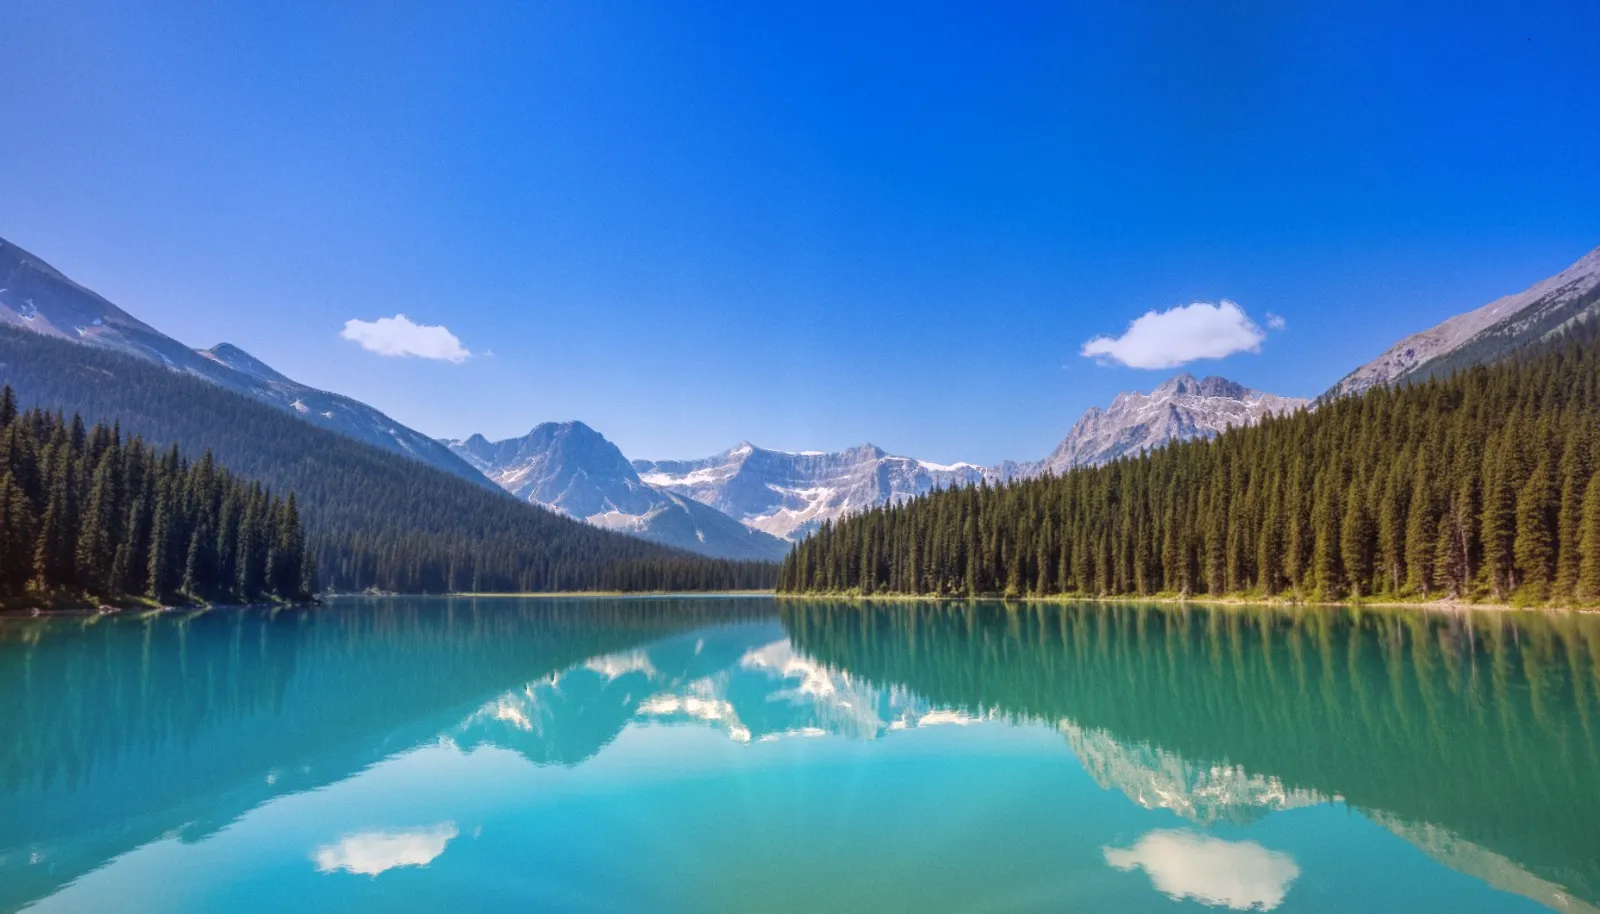
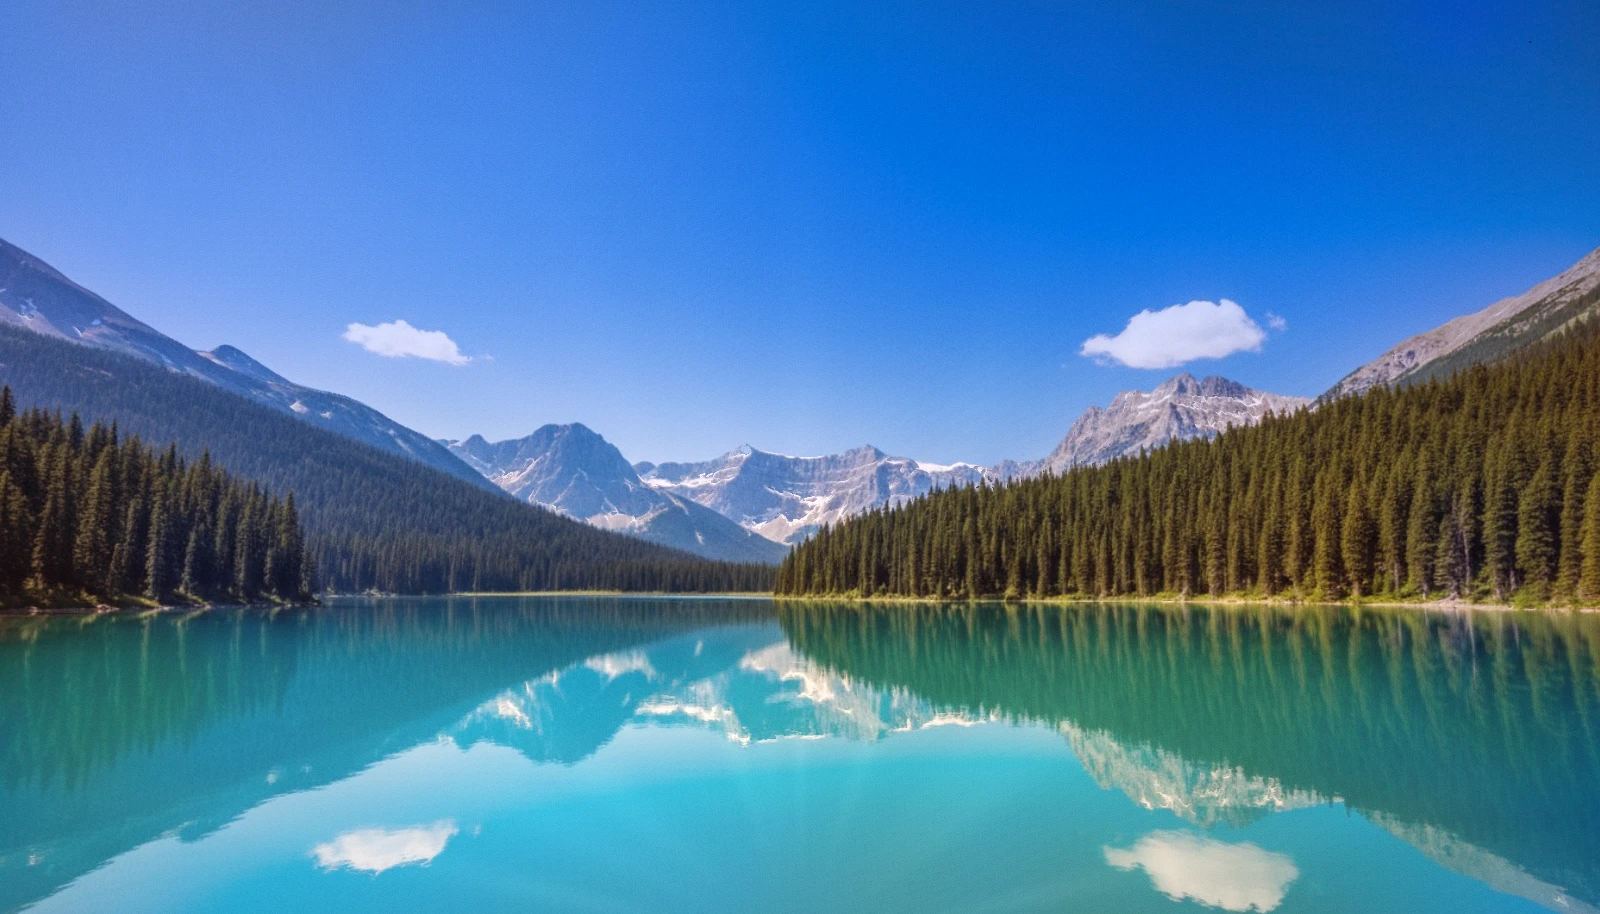
Theme switch as one view-transition wipe (nav and toggle on their own layers); nav links on scroll; drop coming-soon chip; calmer calendar event

diff --git a/src/components/site/theme.tsx b/src/components/site/theme.tsx
@@ -1,44 +1,111 @@
 'use client';
 
 import { createContext, useCallback, useContext, useEffect, useRef, useState } from 'react';
+import { flushSync } from 'react-dom';
 
 export type Theme = 'light' | 'dark';
 const KEY = 'cos-theme';
 
-type Ctx = { theme: Theme; ready: boolean; toggle: () => void };
-const ThemeContext = createContext<Ctx>({ theme: 'light', ready: false, toggle: () => {} });
+type Origin = { x: number; y: number };
+/** toggle returns false when a switch is already running (the click is ignored). */
+type Ctx = { theme: Theme; ready: boolean; toggle: (origin?: Origin) => boolean };
+const ThemeContext = createContext<Ctx>({ theme: 'light', ready: false, toggle: () => false });
 export const useTheme = () => useContext(ThemeContext);
 
 /** Runs before paint (inlined in the page) so a returning dark visitor never sees a light flash. */
 export const THEME_BOOT = `(function(){try{var t=localStorage.getItem('${KEY}');if(!t)t=matchMedia('(prefers-color-scheme: dark)').matches?'dark':'light';document.documentElement.dataset.cosTheme=t;}catch(e){}})();`;
 
+type ViewTransition = { ready: Promise<void>; finished: Promise<void> };
+type ViewTransitionDoc = Document & { startViewTransition?: (cb: () => void) => ViewTransition };
+
+const WIPE_MS = 820;
+const WIPE_EASE = 'cubic-bezier(0.65, 0, 0.35, 1)';
+const WATCHDOG_MS = 400;
+
 export function ThemeProvider({ children }: { children: React.ReactNode }) {
   const [theme, setTheme] = useState<Theme>('light');
   const [ready, setReady] = useState(false);
-  const easing = useRef(0);
+  const themeRef = useRef<Theme>('light');
+  const busy = useRef(false);
 
   useEffect(() => {
-    const boot = document.documentElement.dataset.cosTheme;
-    setTheme(boot === 'dark' ? 'dark' : 'light');
+    const boot: Theme = document.documentElement.dataset.cosTheme === 'dark' ? 'dark' : 'light';
+    themeRef.current = boot;
+    setTheme(boot);
     setReady(true);
   }, []);
 
-  const toggle = useCallback(() => {
-    setTheme((t) => {
-      const next: Theme = t === 'dark' ? 'light' : 'dark';
-      const root = document.documentElement;
-      // colours ease across the whole page while the sky reveals itself
-      root.dataset.cosTheming = 'true';
-      window.clearTimeout(easing.current);
-      easing.current = window.setTimeout(() => delete root.dataset.cosTheming, 900);
+  const toggle = useCallback((origin?: Origin) => {
+    if (busy.current) return false;
+    const next: Theme = themeRef.current === 'dark' ? 'light' : 'dark';
+    themeRef.current = next;
+    const root = document.documentElement;
+
+    let applied = false;
+    const apply = () => {
+      if (applied) return;
+      applied = true;
       root.dataset.cosTheme = next;
       try {
         localStorage.setItem(KEY, next);
       } catch {
         /* private mode */
       }
-      return next;
-    });
+      flushSync(() => setTheme(next));
+    };
+
+    const doc = document as ViewTransitionDoc;
+    const reduce = window.matchMedia('(prefers-reduced-motion: reduce)').matches;
+    if (!doc.startViewTransition || reduce) {
+      apply();
+      return true;
+    }
+
+    // One clean wipe: the browser freezes the old page, applies the new theme, and we
+    // grow the new page in a circle from the toggle over the old one. Everything inside
+    // the circle (sky, colours, cards, nav) is already the new theme.
+    busy.current = true;
+    const x = origin?.x ?? window.innerWidth - 80;
+    const y = origin?.y ?? 40;
+    const r = Math.hypot(Math.max(x, window.innerWidth - x), Math.max(y, window.innerHeight - y));
+    const done = () => {
+      busy.current = false;
+    };
+
+    let transition: ViewTransition;
+    try {
+      transition = doc.startViewTransition(apply);
+    } catch {
+      apply();
+      done();
+      return true;
+    }
+    // if a browser ever stalls the transition, switch anyway rather than leave the page behind
+    const watchdog = window.setTimeout(apply, WATCHDOG_MS);
+    transition.ready
+      .then(() => {
+        // the page and the nav (its own layer, so its glass background never lags) share one circle
+        for (const layer of ['root', 'cos-nav']) {
+          try {
+            root.animate(
+              { clipPath: [`circle(0px at ${x}px ${y}px)`, `circle(${r}px at ${x}px ${y}px)`] },
+              { duration: WIPE_MS, easing: WIPE_EASE, pseudoElement: `::view-transition-new(${layer})` },
+            );
+          } catch {
+            /* layer not present */
+          }
+        }
+      })
+      .catch(() => {});
+    transition.finished
+      .catch(() => {})
+      .finally(() => {
+        window.clearTimeout(watchdog);
+        done();
+      });
+    // never stay locked out of the toggle
+    window.setTimeout(done, WIPE_MS + 600);
+    return true;
   }, []);
 
   return <ThemeContext.Provider value={{ theme, ready, toggle }}>{children}</ThemeContext.Provider>;

diff --git a/src/components/site/site.css b/src/components/site/site.css
@@ -269,6 +269,20 @@ html:not([data-cos-theme='dark']) .cos-hero-actions .cos-btn-silver {
 .cos-nav-links {
   display: flex;
   gap: 4px;
+  transition:
+    opacity 320ms var(--cos-ease-out),
+    transform 420ms var(--cos-ease-out),
+    visibility 0s linear 0s;
+}
+/* over the sky the hero speaks for itself: the section links arrive once you scroll */
+.cos-nav:not([data-scrolled='true']) .cos-nav-links {
+  opacity: 0;
+  visibility: hidden;
+  transform: translateY(-4px);
+  transition:
+    opacity 200ms ease,
+    transform 200ms ease,
+    visibility 0s linear 200ms;
 }
 .cos-nav-link {
   display: inline-flex;
@@ -361,7 +375,7 @@ html:not([data-cos-theme='dark']) .cos-hero-actions .cos-btn-silver {
 
 .cos-hero {
   position: relative;
-  padding-top: clamp(132px, 17vh, 184px);
+  padding-top: clamp(156px, 20vh, 212px);
   padding-bottom: clamp(48px, 7vh, 88px);
 }
 
@@ -1203,15 +1217,15 @@ html[data-cos-theme='dark'] .cos-btn-silver::before {
 }
 
 /* the scene at night */
+/* at night every tile is bright frosted glass, so the brand marks never sink into it */
 html[data-cos-theme='dark'] .cos-tile:not(.cos-tile-ink) {
   background:
-    radial-gradient(120% 80% at 50% 0%, rgba(160, 172, 255, 0.22), rgba(160, 172, 255, 0) 60%),
-    linear-gradient(180deg, rgba(42, 44, 62, 0.85), rgba(18, 19, 30, 0.85));
+    radial-gradient(120% 80% at 50% 0%, #fff, rgba(255, 255, 255, 0) 60%),
+    linear-gradient(180deg, rgba(246, 246, 250, 0.95), rgba(214, 216, 228, 0.92));
   box-shadow:
-    inset 0 1px 0 rgba(255, 255, 255, 0.2),
-    inset 0 0 0 1px rgba(148, 161, 255, 0.18),
-    0 0 0 1px rgba(0, 0, 0, 0.5),
-    0 22px 40px -18px rgba(0, 0, 0, 0.7);
+    inset 0 1px 0 #fff,
+    0 0 0 1px rgba(255, 255, 255, 0.3),
+    0 22px 40px -18px rgba(148, 161, 255, 0.45);
 }
 html[data-cos-theme='dark'] .cos-tile-ink {
   background:
@@ -1298,15 +1312,42 @@ html[data-cos-theme='dark'] .cos-hero-demo::before {
   }
 }
 
-/* while the theme changes, colours ease everywhere at once */
-html[data-cos-theming='true'] .cos,
-html[data-cos-theming='true'] .cos *,
-html[data-cos-theming='true'] .cos *::before {
-  transition-property: background-color, background, color, border-color, box-shadow, fill, stroke, text-shadow !important;
-  transition-duration: 760ms !important;
-  transition-timing-function: cubic-bezier(0.65, 0, 0.35, 1) !important;
-  transition-delay: 0ms !important;
+/* the theme switch: one wipe from the toggle over the whole page (theme.tsx).
+   The toggle rides on its own layer, live above the wipe, so its slide is never clipped. */
+::view-transition-old(root),
+::view-transition-new(root),
+::view-transition-old(cos-nav),
+::view-transition-new(cos-nav) {
+  animation: none;
+  mix-blend-mode: normal;
 }
+::view-transition-new(root),
+::view-transition-new(cos-nav) {
+  z-index: 1;
+}
+/* the nav is its own layer, wiped by the same circle (it sits at the top-left, so the
+   circle's page coordinates line up with its own) */
+.cos-nav {
+  view-transition-name: cos-nav;
+}
+::view-transition-group(cos-nav) {
+  z-index: 2;
+  animation: none;
+}
+.cos-theme-toggle {
+  view-transition-name: cos-theme-toggle;
+}
+::view-transition-group(cos-theme-toggle) {
+  z-index: 3;
+  animation: none;
+}
+::view-transition-old(cos-theme-toggle) {
+  display: none;
+}
+::view-transition-new(cos-theme-toggle) {
+  animation: none;
+}
+
 
 @media (max-width: 719px) {
   .cos-nav-actions .cos-btn-metal {

diff --git a/src/components/site/demo/demo.css b/src/components/site/demo/demo.css
@@ -488,21 +488,47 @@ img.dm-avatar {
   flex: none;
 }
 .dm-cal-new {
-  background: linear-gradient(180deg, #5c7aff, #3555f0);
-  color: #fff;
-  box-shadow: inset 0 1px 0 rgba(255, 255, 255, 0.3);
+  position: relative;
+  padding-left: 10px;
+  background: var(--dm-panel);
+  color: var(--dm-text);
+  font-weight: 550;
+  box-shadow:
+    inset 0 0 0 1px rgba(47, 91, 234, 0.35),
+    0 6px 14px -8px rgba(47, 91, 234, 0.45);
   opacity: 0;
-  transform: translateY(-46px) scale(0.94);
-  filter: blur(4px);
+  transform: translateY(4px) scale(0.96);
+  transform-origin: 50% 0;
   transition:
-    opacity 360ms ease,
-    transform 700ms cubic-bezier(0.34, 1.32, 0.64, 1),
-    filter 400ms ease;
+    opacity 260ms ease,
+    transform 420ms cubic-bezier(0.23, 1, 0.32, 1);
+}
+/* a cobalt accent bar marks it as the one just scheduled */
+.dm-cal-new::before {
+  content: '';
+  position: absolute;
+  left: 3px;
+  top: 5px;
+  bottom: 5px;
+  width: 3px;
+  border-radius: 2px;
+  background: var(--dm-blue);
 }
 .dm-cal-new[data-on='true'] {
   opacity: 1;
   transform: none;
-  filter: none;
+}
+/* the cell answers once as the post lands */
+.dm-cal-cell[data-target='true'] {
+  animation: dm-land 900ms ease-out;
+}
+@keyframes dm-land {
+  0% {
+    box-shadow: inset 0 0 0 1px rgba(47, 91, 234, 0.45), 0 0 0 0 rgba(47, 91, 234, 0.35);
+  }
+  100% {
+    box-shadow: inset 0 0 0 1px rgba(47, 91, 234, 0.45), 0 0 0 10px rgba(47, 91, 234, 0);
+  }
 }
 .dm-toast {
   position: absolute;

diff --git a/src/components/site/hero/SkyField.tsx b/src/components/site/hero/SkyField.tsx
@@ -1,6 +1,6 @@
 'use client';
 
-import { useEffect, useRef, useState } from 'react';
+import { useEffect, useLayoutEffect, useRef, useState } from 'react';
 import { ClayzoPlayer } from '@clayzo/webgl-player/react';
 import type { PlayerHandle } from '@clayzo/webgl-player';
 import { readClayzoBundle, type LoadedClayzo } from '@clayzo/animation/bundle';
@@ -8,8 +8,8 @@ import { useTheme } from '../theme';
 
 /**
  * The hero backdrop (Clayzo, animations/hero-sky.ts): a painted sky whose
- * clouds drift and lean toward the cursor. At night the starlit version
- * spreads out from the toggle's corner. ?bg=lake swaps in the mountain lake.
+ * clouds drift and lean toward the cursor. Day and night switch instantly;
+ * the page-wide wipe (theme.tsx) does the reveal. ?bg=lake swaps in the mountain lake.
  */
 const BACKDROPS = {
   sky: { scene: 'hero-sky', day: 'sky', night: 'sky-night' },
@@ -23,7 +23,8 @@ export function SkyField() {
   const playerRef = useRef<PlayerHandle | null>(null);
   const night = theme === 'dark' ? 1 : 0;
 
-  useEffect(() => {
+  // layout effect so the sky has switched before the page's view transition captures it
+  useLayoutEffect(() => {
     playerRef.current?.setInput('night', night);
   }, [night]);
 

diff --git a/src/components/site/hero/Hero.tsx b/src/components/site/hero/Hero.tsx
@@ -1,7 +1,6 @@
 import Link from 'next/link';
-import { ChevronRight } from 'lucide-react';
 import { ProductDemo } from '../demo/ProductDemo';
-import { InstagramLogo, PlatformIcon, TikTokLogo } from '../brand/Logos';
+import { PlatformIcon } from '../brand/Logos';
 import { HeroLoop } from './HeroLoop';
 import { SkyField } from './SkyField';
 
@@ -14,15 +13,6 @@ export function Hero({ cta }: { cta: { href: string; label: string } }) {
       <HeroLoop />
 
       <div className="cos-hero-copy">
-        <Link href="/roadmap" className="cos-news cos-rise" style={{ ['--d' as string]: 0 }}>
-          <span className="cos-news-logos">
-            <InstagramLogo size={14} />
-            <TikTokLogo size={14} />
-          </span>
-          Instagram and TikTok are coming soon
-          <ChevronRight size={14} strokeWidth={2.2} aria-hidden="true" />
-        </Link>
-
         <h1 id="cos-hero-title" className="cos-hero-title">
           <span className="cos-line cos-rise" style={{ ['--d' as string]: 1 }}>
             Content and leads.

diff --git a/src/components/site/ThemeToggle.tsx b/src/components/site/ThemeToggle.tsx
@@ -39,7 +39,13 @@ export function ThemeToggle() {
       aria-label="Dark theme"
       className="cos-theme-toggle"
       data-theme-toggle
-      onClick={toggle}
+      onClick={(e) => {
+        const r = e.currentTarget.getBoundingClientRect();
+        // the thumb starts sliding on the click itself, in step with the curtain
+        if (toggle({ x: r.left + r.width / 2, y: r.top + r.height / 2 })) {
+          playerRef.current?.setInput('dark', !dark);
+        }
+      }}
     >
       {ready && (
         <ClayzoPlayer

diff --git a/animations/hero-sky.ts b/animations/hero-sky.ts
@@ -272,7 +272,6 @@ const scene = withComputedRevision({
 // night: 0 = day, 1 = night. Eased natively so the reveal plays inside Clayzo.
 const eased = (id: string) => [
   { id: `${id}.in`, op: 'input' as const, input: 'night' },
-  { id: `${id}.ease`, op: 'spring' as const, stiffness: 46, damping: 13.6, mass: 1 },
   { id: `${id}.clamp`, op: 'clamp' as const, minimum: 0, maximum: 1 },
 ];
 const radius = (id: string) => [
